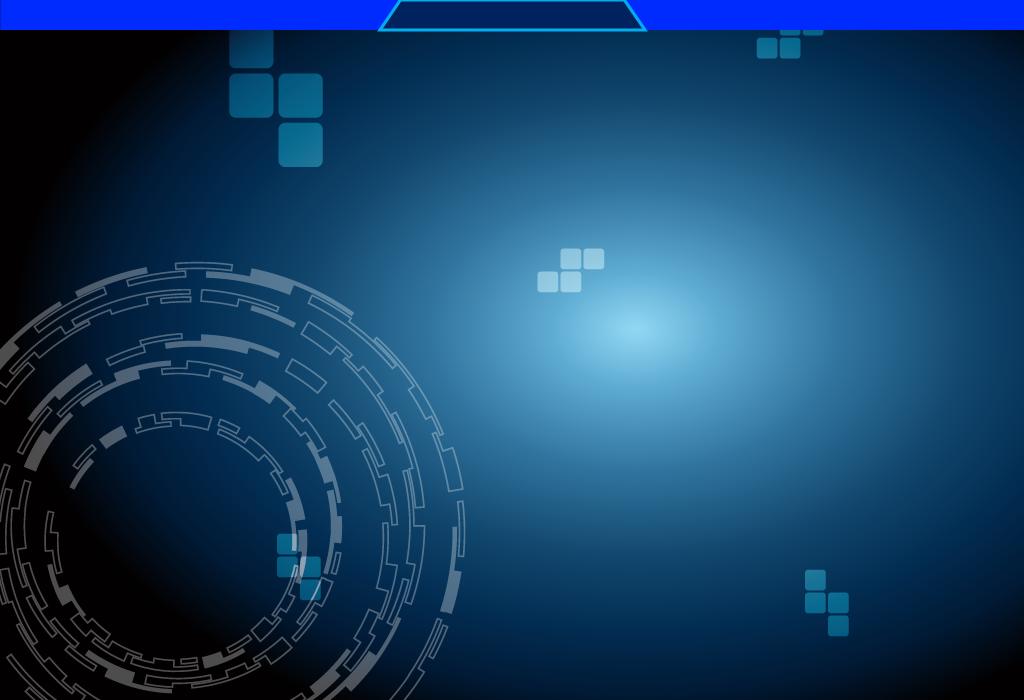
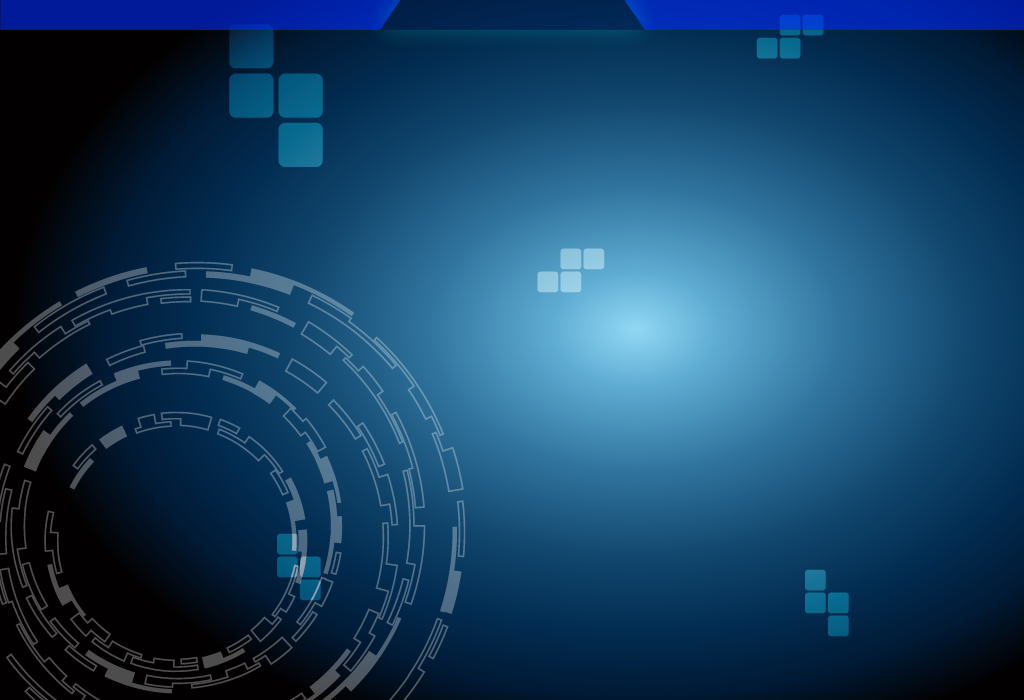
- Add CommSetting.qml for control and set comport

Changed region(s): [[0.0, 0.0, 1.0, 0.06]]

diff --git a/gStabiSC/qml/gStabiSC/Communication/CommSetting.qml b/gStabiSC/qml/gStabiSC/Communication/CommSetting.qml
@@ -1,0 +1,62 @@
+import QtQuick 2.1
+import QtQuick.Controls 1.0
+import QtQuick.Layouts 1.0
+import QtQuick.Controls.Styles 1.0
+
+
+Item{
+    property string portname: ""    // used to store portname in getPortNameList()
+    GroupBox{
+        id: communicationgroupbox
+        flat: false
+        title: "Communication"
+        width: 300
+        height: 250
+        anchors.top: parent.top
+        anchors.topMargin: 5
+        RowLayout{
+            id: portRow
+            anchors.top: parent.top
+            anchors.topMargin: 0
+            Layout.fillWidth: parent
+            ComboBox{
+                id: portListBox
+                model: comportList
+                onCurrentTextChanged:  {
+                    _serialLink.update_comport_settings(currentText);
+                }
+            }   // portlistBox
+            Button{
+                text: "Open"
+                onClicked: {
+                    if(_serialLink.open_close_comport()){
+                        text = "Close"
+                    } else{
+                        text = "Open"
+                    }
+                }
+            }// comport Open/Close
+        }   // portRow
+    } // communication GroupBox
+    ListModel {
+        id: comportList
+    }
+    Timer{
+        id: getPortListTimer
+        interval: 100
+        running: true
+        repeat: false   // run once at start up
+        onTriggered: {
+            getPortNameList();
+        }
+    }
+    function getPortNameList()
+    {
+        for(var i=0 ; i < 5 ; i++){
+            portname = _serialLink.getPortName(i);
+            if(portname !== "NA"){
+                comportList.append({"port": portname});
+            }
+        }
+    }
+}

diff --git a/gStabiSC/qml/gStabiSC/main.qml b/gStabiSC/qml/gStabiSC/main.qml
@@ -1,11 +1,12 @@
 import QtQuick 2.0
 
 import "Header"
+import "Communication"
 
 Rectangle {
     width: 1024
     height: 700
-
+    property int header_height: 30
     BorderImage {
         id: gstabiBackgroundImage
         anchors.fill: parent
@@ -15,7 +16,13 @@ Rectangle {
         id: header
         anchors.top: parent.top
         anchors.left: parent.left
-        implicitHeight: 30
-        implicitWidth: 1024
+        implicitHeight: header_height
+        implicitWidth: parent.width
+    }
+    CommSetting{
+        id: comportSettingPanel
+        anchors.top: header.bottom
+        implicitHeight: 250
+        implicitWidth: 300
     }
 }

diff --git a/gStabiSC/qml/gStabiSC/Header/AppHeader.qml b/gStabiSC/qml/gStabiSC/Header/AppHeader.qml
@@ -24,7 +24,7 @@ Item {
     Label{
         id: applicationName
         color: "#09fdb0"
-        text: _configuration.application_name()+ " " + _configuration.application_version();
+        text: _configuration.application_name() + " " + _configuration.application_version()
         anchors.horizontalCenter: parent.horizontalCenter
         horizontalAlignment: Text.AlignHCenter
         style: Text.Raised
@@ -34,7 +34,6 @@ Item {
         anchors.verticalCenter: parent.verticalCenter
         anchors.centerIn: parent.Center
     }
-
     Label{
         id: comportInfo
         color: "#09fdb0"

diff --git a/gStabiSC/main.cpp b/gStabiSC/main.cpp
@@ -1,16 +1,11 @@
 #include <QtGui/QGuiApplication>
 #include "qtquick2applicationviewer.h"
 
-//#include <QtQml> // for qmlRegisterType
 #include <QQmlContext> // for setContextProperty
-//#include <QQmlEngine>
 
 
-#include "src/configuration.h"
-//#define APPLICATION_NAME "gStabi"
-//#define APPLICATION_VERSION "V.1.0.1(beta rc1)"
-//#define WIDTH 1024
-//#define HEIGHT 700
+#include "configuration.h"
+#include "SerialLink.h"
 
 int main(int argc, char *argv[])
 {
@@ -26,6 +21,9 @@ int main(int argc, char *argv[])
 
     Configuration m_configuration;
     viewer.rootContext()->setContextProperty("_configuration",&m_configuration);
+    SerialLink m_serialLink;
+    viewer.rootContext()->setContextProperty("_serialLink", &m_serialLink);
+
     viewer.showNormal();
 
     return app.exec();
